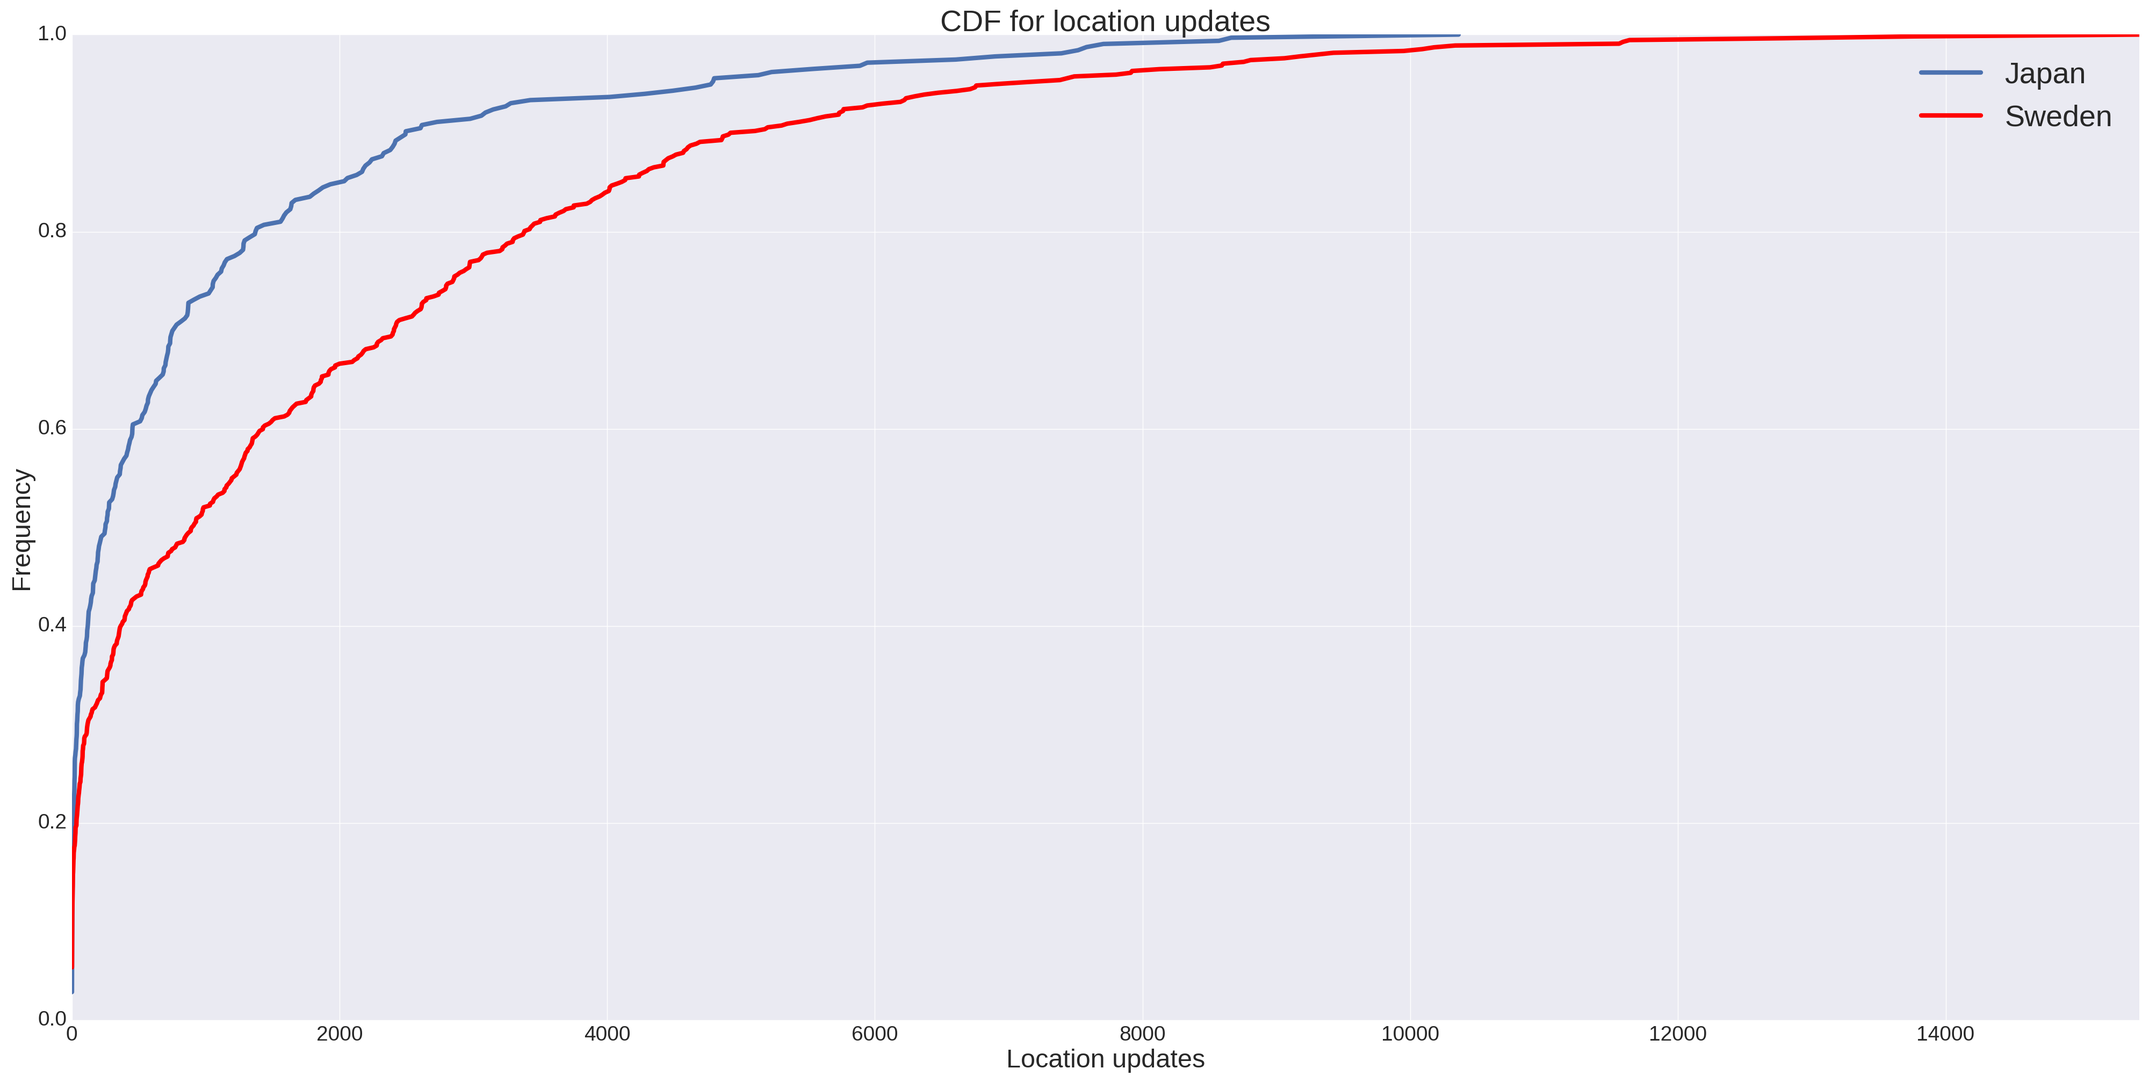
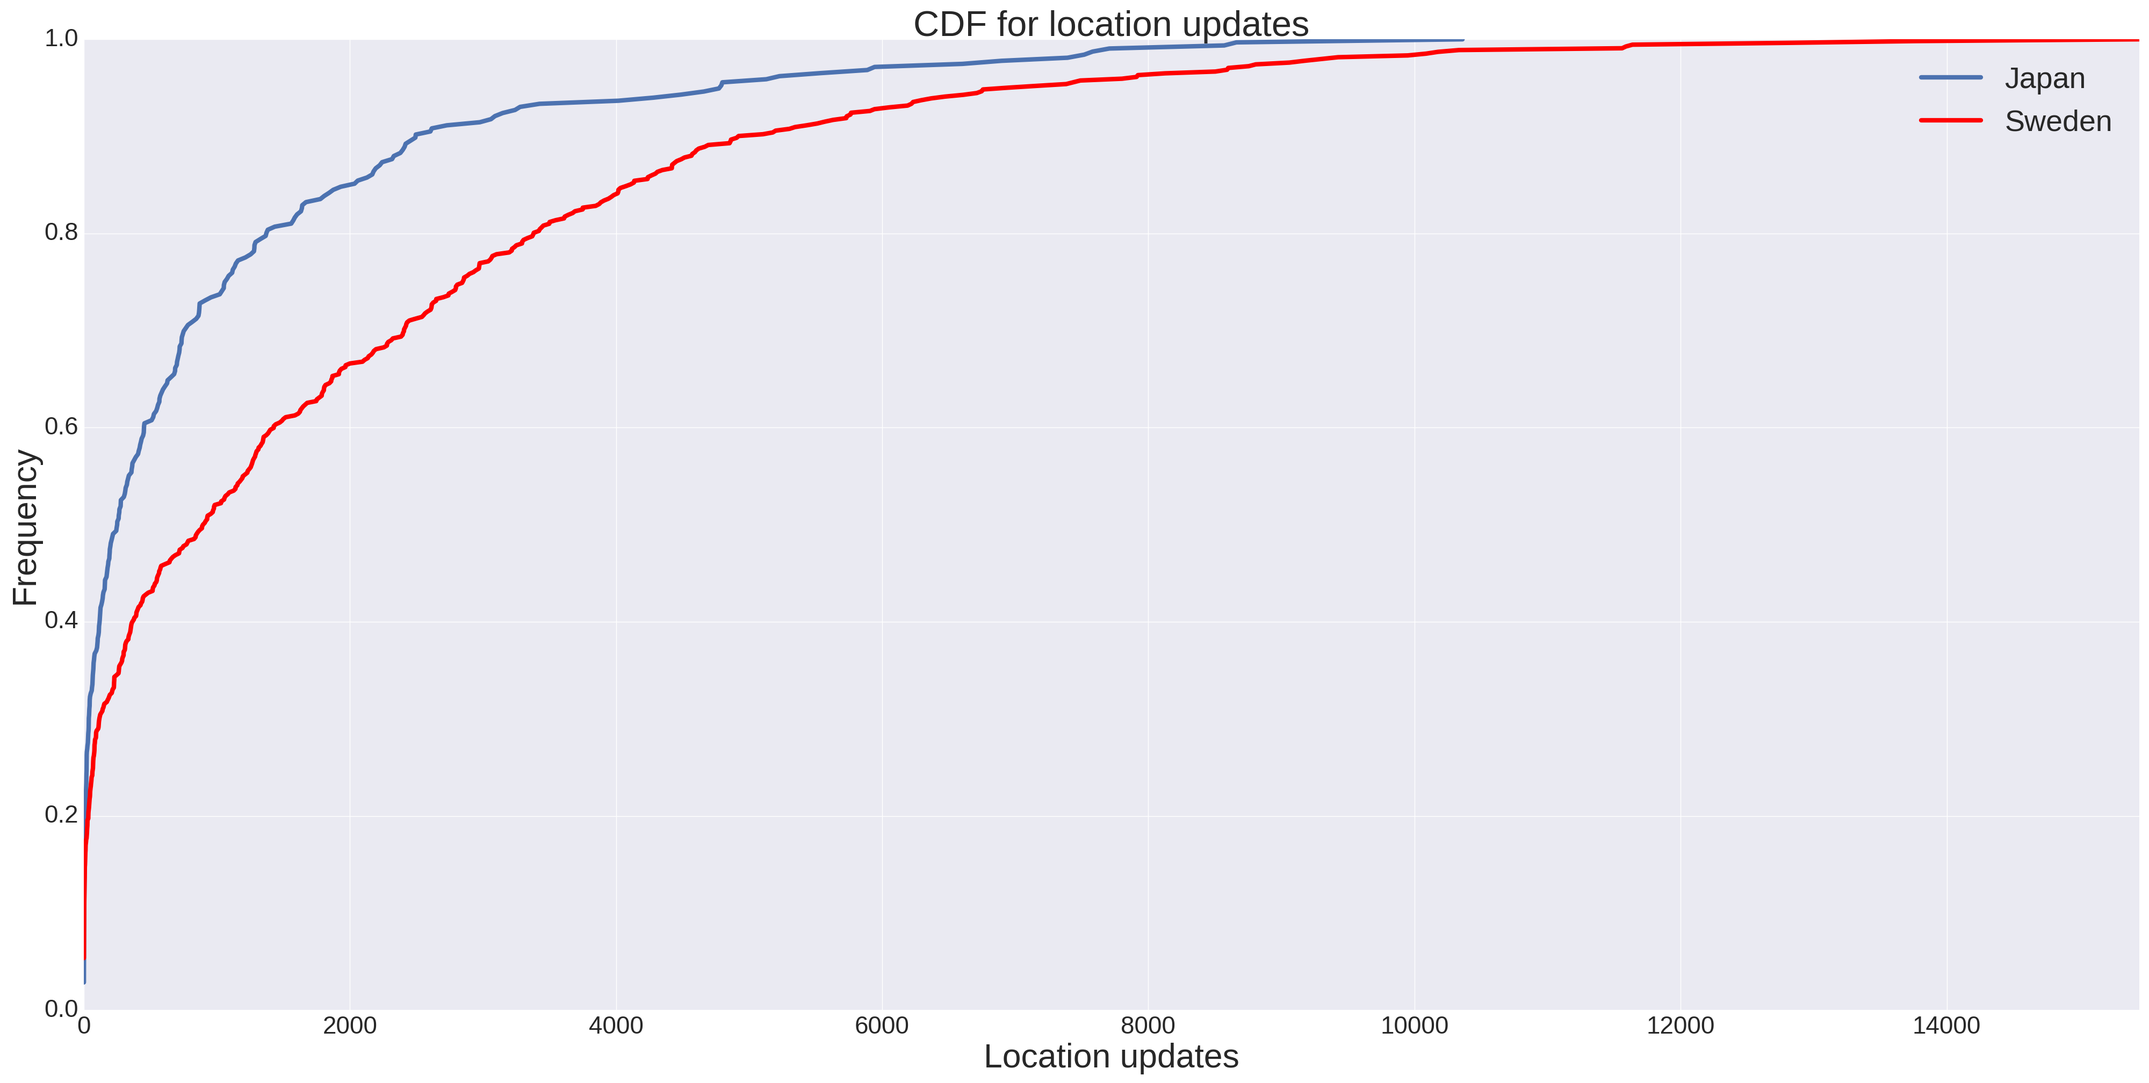
updated and aggregated heatmap added in script file

diff --git a/tools/scripts/records_analysis.py b/tools/scripts/records_analysis.py
@@ -36,8 +36,10 @@ def get_data_for_heat_map_per_month(country="Japan", total_count={}, user=""):
             numpy array -- Numpy array with number of location in that day, in that week, in that month
     """
     d = DatabaseHelper.DatabaseHelper()
-    sept_min_datetime2 = "2015-08-30 00:00:00+00:00" #Mandag
-    nov_max_datetime2 = "2015-12-13 23:59:59+00:00"
+    timezones = {"Sweden": "+02:00",
+                 "Japan": "+09:00"}
+    sept_min_datetime2 = "2015-08-30 00:00:00" + timezones[country] #Mandag
+    nov_max_datetime2 = "2015-12-13 23:59:59" + timezones[country]
     number_of_month = 3
     days_in_week = 7
     number_of_weeks = 6
@@ -68,23 +70,36 @@ def get_data_for_heat_map_per_month(country="Japan", total_count={}, user=""):
                         break
                     else:
                         month_index = month_range.index(current_month)
-                    start = day.strftime("%Y-%m-%d %H:%M:%S")+"+00:00"
-                    end =  day.strftime("%Y-%m-%d")+" 23:59:59+00:00"
+                    start = day.strftime("%Y-%m-%d %H:%M:%S") + timezones[country]
+                    end =  day.strftime("%Y-%m-%d")+" 23:59:59" + timezones[country]
                     user_query = ""
                     if user != "":
                         user_query = " AND useruuid = '"+user+"'"
-                    query = "select count(*) FROM location WHERE country='"+country+"' AND start_time >= '"+start+"' AND start_time <= '" + end + "'"+user_query+";"
+                    query = "select count(*) FROM location WHERE country='" + country + \
+                            "' AND ((start_time >= '" + start + \
+                            "' AND start_time < '" + end + "')" + \
+                            " OR (end_time >= '" + start + \
+                            "' AND end_time < '" + start + "')" + \
+                            " OR (start_time < '"+start + \
+                            "' AND end_time > '"+end+"'))" + user_query+";"
                     result = d.run_specific_query(query)[0][0] 
                     data[month_index][day.weekday()][week_of_month(day)-1] = result/total_count[country]
                     
                 else: #Hvis vi er i current_month
                     if day.month != 8:
-                        start = day.strftime("%Y-%m-%d %H:%M:%S")+"+00:00"
-                        end =  day.strftime("%Y-%m-%d")+" 23:59:59+00:00"
+                        start = day.strftime("%Y-%m-%d %H:%M:%S") + timezones[country]
+                        end =  day.strftime("%Y-%m-%d")+" 23:59:59" + timezones[country]
                         user_query = ""
                         if user != "":
                             user_query = " AND useruuid = '"+user+"'"
-                        query = "select count(*) FROM location WHERE country='"+country+"' AND start_time >= '"+start+"' AND start_time <= '" + end + "'" + user_query+";"
+                        query = "select count(*) FROM "+ \
+                            "location WHERE country='" + country + \
+                            "' AND ((start_time >= '" + start + \
+                            "' AND start_time < '" + end + "')" + \
+                            " OR (end_time >= '" + start + \
+                            "' AND end_time < '" + start + "')" + \
+                            " OR (start_time < '"+start + \
+                            "' AND end_time > '"+end+"'))" + user_query+";"
                         result = d.run_specific_query(query)[0][0] 
                         data[month_index][day.weekday()][week_of_month(day)-1] = result/total_count[country]
         if break_flag:
@@ -147,15 +162,20 @@ def get_data_for_heat_map_per_user(country, start_date, end_date, input_users=[]
     #print(len(users)/2)
     data = np.full((len(users)/2, len(days)),
                    0, dtype=int)
-
+    timezones = {"Sweden": "+02:00",
+                 "Japan": "+09:00"}
     if not input_users:
         for day_index, day in enumerate(tqdm(days)): #Vi starter på en mandag!!!
-            start = day.strftime("%Y-%m-%d %H:%M:%S")+"+00:00"
-            end =  day.strftime("%Y-%m-%d")+" 23:59:59+00:00"
+            start = day.strftime("%Y-%m-%d %H:%M:%S") + timezone[country]
+            end =  day.strftime("%Y-%m-%d")+" 23:59:59" + timezones[country]
             result = d.run_specific_query("SELECT useruuid, count(*) FROM " +
                                           "location WHERE country='" + country +
-                                          "' AND start_time >= '" + start +
-                                          "' AND start_time <= '" + end + "'" +
+                                          "' AND ((start_time >= '" + start +
+                                          "' AND start_time < '" + end + "')" +
+                                          " OR (end_time >= '" + start +
+                                          "' AND end_time < '" + start + "')" +
+                                          " OR (start_time < '"+start +
+                                          "' AND end_time > '"+end+"'))" +
                                           "GROUP BY useruuid")
             for row in result:
                 user = row[0]
@@ -163,9 +183,6 @@ def get_data_for_heat_map_per_user(country, start_date, end_date, input_users=[]
                     data[users[user]][day_index] = row[1]
                 else:
                     data[users[user]][day_index] = 1
-                #counts = row[1]
-                
-        #print(data)
     else:
         for day_index, day in enumerate(tqdm(days)): #Vi starter på en mandag!!!
             for user in input_users:
@@ -173,8 +190,12 @@ def get_data_for_heat_map_per_user(country, start_date, end_date, input_users=[]
                 end = day.strftime("%Y-%m-%d")+" 23:59:59+00:00"
                 result = d.run_specific_query("SELECT count(*) FROM " +
                                               "location WHERE country='" + country +
-                                              "' AND start_time >= '" + start +
-                                              "' AND start_time <= '" + end + "'" +
+                                              "' AND ((start_time >= '" + start +
+                                              "' AND start_time < '" + end + "')" +
+                                              " OR (end_time >= '" + start +
+                                              "' AND end_time < '" + start + "')" +
+                                              " OR (start_time < '"+start +
+                                              "' AND end_time > '"+end+"'))" +
                                               " AND useruuid='"+user+"'")
                 for row in result:
                     if row[0] > 0:
@@ -184,6 +205,112 @@ def get_data_for_heat_map_per_user(country, start_date, end_date, input_users=[]
                             data[users[user]][day_index] = 1
                         
     return data, users
+
+
+def get_data_for_heat_map_per_user_aggregated(country, start_date, end_date, bins=60, input_users=[], counts=False):
+    """
+        Generate numpy matrix represent heatmap, with user and number of bins over 24 hours.
+        Bins is number of minutes each bin is. So dimension for arrays is usersx((24*60)/bins)
+
+        Arguments:
+            country {string} -- Which country to get data from
+            start_date {string} -- start datetime
+            end_time {string} -- end datetime
+            input_users {list} -- list of specific users
+            counts {boolean} -- Indicates if it should find number of locations (True) or just if the user has an update (False)
+
+        Returns:
+            numpy array -- Numpy array
+    """
+    d = DatabaseHelper.DatabaseHelper()
+    users = get_all_users_in_country(country, input_users)
+    start_time = parser.parse(start_date + " 00:00:00+00:00")
+    end_time = parser.parse(end_date + " 23:59:59+00:00")
+    days = list(rrule(freq=DAILY, dtstart=start_time, until=end_time))
+    data = np.full((len(users)/2, (24*60)/bins),
+                   0, dtype=int)
+    timezones = {"Sweden": "+02:00",
+                 "Japan": "+09:00"}
+    if not input_users:
+        for day_index, day in enumerate(tqdm(days)):
+            times_in_that_day = generate_time_list(day, day+timedelta(days=1), bins, True)
+            #print(times_in_that_day)
+            for bin_index, times in enumerate(times_in_that_day):
+
+                start = times[0].strftime("%Y-%m-%d %H:%M:%S")+timezones[country]
+                end = times[1].strftime("%Y-%m-%d %H:%M:%S")+timezones[country]
+                #print("start = {}, end = {}\nbin_index = {}\n-----------"
+                #      .format(start, end, bin_index))
+                result = d.run_specific_query("SELECT useruuid, count(*) FROM " +
+                                              "location WHERE country='" + country +
+                                              "' AND ((start_time >= '" + start +
+                                              "' AND start_time < '" + end + "')" +
+                                              " OR (end_time >= '" + start +
+                                              "' AND end_time < '" + start + "')" +
+                                              " OR (start_time < '"+start +
+                                              "' AND end_time > '"+end+"'))" +
+                                              "GROUP BY useruuid")
+                for row in result:
+                    user = row[0]
+                    if counts:
+                        data[users[user]][bin_index] += row[1]
+                    else:
+                        data[users[user]][bin_index] += 1
+    else:
+        for day_index, day in enumerate(tqdm(days)): #Vi starter på en mandag!!!
+            times_in_that_day = generate_time_list(day, day+timedelta(days=1), bins, True)
+            for bin_index, times in enumerate(times_in_that_day):
+                for user in input_users:
+                    start = times[0].strftime("%Y-%m-%d %H:%M:%S")+"+00:00"
+                    end = times[1].strftime("%Y-%m-%d %H:%M:%S")+"+00:00"
+                    result = d.run_specific_query("SELECT count(*) FROM " +
+                                                  "location WHERE country='" + country +
+                                                  "' AND (start_time >= '" + start +
+                                                  "' AND start_time < '" + end + "')" +
+                                                  "' OR (end_time >= '" + start +
+                                                  "' AND end_time < '" + start + "')" +
+                                                  " OR (start_time < '"+start +
+                                                  "' AND end_time > '"+end+"')" +
+                                                  " AND useruuid='"+user+"'")
+                    for row in result:
+                        if row[0] > 0:
+                            if counts:
+                                data[users[user]][bin_index] += row[0]
+                            else:
+                                data[users[user]][bin_index] += 1
+                        
+    return data, users
+
+
+def generate_time_list(start_time, end_time, step_size, zips=False):
+    """
+    Generate a list of datetimes with an rrule of specific number of minutes
+
+    Arguments:
+        start_time {datetime} -- Datetime for when the list starts
+        end_time   {datetime} -- Datetime for when the list ends
+        step_size  {int}      -- How many minutes between element in the list (minutes - 60 = 1 hour)
+
+    Return:
+        list of datetimes
+    """
+    lst = []
+    if not zips:
+        lst.append(start_time)
+        temp_time = start_time
+        while temp_time < end_time:
+            temp_time = temp_time+timedelta(minutes=step_size)
+            lst.append(temp_time)
+        lst = lst[:-1]
+    else:
+        temp_time = start_time
+        before = temp_time
+        while temp_time < end_time:
+            temp_time = temp_time+timedelta(minutes=step_size)
+            lst.append((before, temp_time))
+            before = temp_time
+    return lst
+
 
 
 def week_of_month(date):
@@ -251,9 +378,10 @@ def cdf_xy_plot():
     plt.xlim(0, xlim_max)
     plt.title(title)
     plt.legend(prop={'size': 40})
-    [item.set_fontsize(35) for item in [ax.yaxis.label, ax.xaxis.label]]
-    ax.title.set_fontsize(40)
-    [item.set_fontsize(28) for item in ax.get_xticklabels() + ax.get_yticklabels()]
+    sns.plt.tick_params(labelsize=20)
+    [item.set_fontsize(45) for item in [ax.yaxis.label, ax.xaxis.label]]
+    ax.title.set_fontsize(48)
+    [item.set_fontsize(33) for item in ax.get_xticklabels() + ax.get_yticklabels()]
     plt.show()
 
 
@@ -297,7 +425,7 @@ def records_dist_plot(data, bins, xlabels, ylabels, titles, labels):
     sns.plt.show()
 
 
-def heat_map(data, mask, xlabels, ylabels, title="", anno=True, multiple=True, max_val=0):
+def heat_map(data, mask, xticks, yticks, title="", xlabels=[], ylabels=[], anno=True, multiple=True, max_val=0):
     """
     Plotting a heatmap
 
@@ -319,9 +447,9 @@ def heat_map(data, mask, xlabels, ylabels, title="", anno=True, multiple=True, m
         fig, ax = sns.plt.subplots(3, 1)
         cbar_ax = fig.add_axes([.91, .3, .03, .4])
         for index, ax in enumerate(ax.flat):
-            sns.heatmap(data[index], ax=ax, xticklabels=[" "]*len(xlabels[index]) if index != 2 else xlabels[index],
+            sns.heatmap(data[index], ax=ax, xticklabels=[" "]*len(xticks[index]) if index != 2 else xticks[index],
                         annot=anno, fmt="d",
-                        yticklabels=ylabels[index], mask=mask[index], vmin=0,
+                        yticklabels=yticks[index], mask=mask[index], vmin=0,
                         vmax=max_val, cbar=index == 0, cbar_ax=None if index else cbar_ax)
             if title != "" and index == 0:
                 ax.set_title(title)
@@ -331,24 +459,30 @@ def heat_map(data, mask, xlabels, ylabels, title="", anno=True, multiple=True, m
         if max_val == 0:
             max_val = np.amax(data)
         if mask:
-            ax = sns.heatmap(data, xticklabels=xlabels,
+            ax = sns.heatmap(data, xticklabels=xticks,
                              annot=anno, fmt="d",
-                             yticklabels=ylabels, mask=mask, vmin=0,
+                             yticklabels=yticks, mask=mask, vmin=0,
                              vmax=max_val)
         else:
-            if not ylabels:
-                ylabels = [[" "]*data.shape[1]]
-            ax = sns.heatmap(data, xticklabels=xlabels[0],
+            if not yticks:
+                yticks = [[" "]*data.shape[1]]
+            ax = sns.heatmap(data, xticklabels=xticks[0],
                              annot=anno, fmt="d",
-                             yticklabels=ylabels[0], vmin=0,
+                             yticklabels=yticks[0], vmin=0,
                              vmax=max_val)
             [label.set_visible(False) for label in ax.yaxis.get_ticklabels()]
 
             for label in ax.yaxis.get_ticklabels()[::4]:
                 label.set_visible(True)
         ax.set_title(title)
-        ax.set_ylabel("Users")
-        ax.set_xlabel("Days")
+        if ylabels:
+            ax.set_ylabel(ylabels)
+        else:
+            ax.set_ylabel("Users")
+        if xlabels:
+            ax.set_xlabel(xlabels)
+        else:
+            ax.set_xlabel("Days")
         plt.yticks(rotation=0)
     sns.plt.show()
 
@@ -744,11 +878,75 @@ def coocs_at_hq_or_not():
     [item.set_fontsize(33) for item in ax.get_xticklabels() + ax.get_yticklabels()]
     sns.plt.show()
 
-    #
+
+def time_plot():
+    d = DatabaseHelper.DatabaseHelper()
+    data = []
+    _, _, total_count, countries = fetch_data()
+    for country in countries:
+        x = []
+        y = []
+        res = d.run_specific_query("select extract(hour FROM start_time), count(*) from location WHERE country='"+country+"' GROUP BY extract(hour FROM start_time)")
+        for row in res:
+            x.append(adjust_hour(row[0], country))
+            y.append(row[1]/total_count[country])
+        temp = zip(x, y)
+        temp2 = list(zip(*sorted(temp)))
+        data.append((list(temp2[0]), list(temp2[1])))
+    title = "Cummulative location updates by time of day"
+    xlabel = "Time of day in hours"
+    ylabel = "Cummulative location updates frequency"
+    legend_labels = countries
+    ax = plt.subplot(111, xlabel=xlabel, ylabel=ylabel, title=title)
+    plt.plot(data[0][0], data[0][1], label=legend_labels[0], linewidth=6.0)
+    plt.plot(data[1][0], data[1][1], label=legend_labels[1], color='r', linewidth=6.0)
+    #xlim_max = max([max(data[0][0]), max(data[1][0])])
+    #plt.ylim(0, 1)
+    plt.xticks(data[0][0])
+    ax.yaxis.set_major_formatter(tck.FormatStrFormatter('%.1e'))
+    plt.xlim(0, 24)
+    plt.title(title)
+    plt.legend(prop={'size': 40})
+    sns.plt.tick_params(labelsize=20)
+    [item.set_fontsize(45) for item in [ax.yaxis.label, ax.xaxis.label]]
+    ax.title.set_fontsize(48)
+    [item.set_fontsize(33) for item in ax.get_xticklabels() + ax.get_yticklabels()]
+    plt.show()
+
+
+def adjust_hour(hour, country):
+    countries = {'Japan': 7, 'Sweden': 0}
+    return (hour+countries[country]) % 24
+    
+
+def aggregated_heatmap():
+    country = "Sweden"
+    start = '2015-09-01'
+    end = '2015-11-30'
+    bin_size = 60 #minutes
+    data, users = get_data_for_heat_map_per_user_aggregated(country, start, end, bin_size)
+    lst = generate_time_list(parser.parse(start+' 00:00:00+00:00'),
+                             parser.parse(start+' 00:00:00+00:00') +
+                             timedelta(days=1), bin_size)
+    xticks = [row.strftime("%H:%M") for row in lst]
+    print(xticks)
+    yticks = list(range(data.shape[0]))
+    heat_map(data, [], [xticks], [],
+             title=country + " - '" + start + "' to '" + end + "'",
+             xlabels="Time of day", ylabels=[], anno=False, multiple=False, max_val=0)
+
+
 if __name__ == '__main__':
+    aggregated_heatmap()
+    #res = generate_time_list(parser.parse('2015-08-30 00:00:00+00:00'),
+    #                         parser.parse('2015-08-31 00:00:00+00:00'), 60, True)
+    #print(len(res))
+    #print(res)
+    
     #coocs_at_hq_or_not()
     #location_updates_at_hq_or_not()
-    cdf_xy_plot()
+    #cdf_xy_plot()
+    #time_plot()
     #compare_loc_updates_per_month()
     #data, df, total_count, countries = fetch_data()
 

diff --git a/report/dataset.tex b/report/dataset.tex
@@ -230,7 +230,13 @@ Vi har valgt at visualisere dette, ved brug af Heatmaps.
 \end{figure}
 
 
- Figure \ref{fig:heatmap_jap} viser hvordan lokations opdateringer per bruger i Japan er fordelt over hver dag i hver af de tre måneder. p.  \pageref{fig:heatmap_jap} and Figure \ref{fig:heatmap_swe} p. \pageref{fig:heatmap_swe})
+ Figure \ref{fig:heatmap_jap} viser hvordan lokations opdateringerne per bruger (afrundet til heltal) i Japan er fordelt over hver dag i hver af de tre måneder. Figure \ref{fig:heatmap_swe} viser det samme, bare for Sverige. 
+ Vi kan f.eks. se, at der i Japan er gennemsnitligt 17 opdateringer per bruger om mandagen i uge 3 i september, hvor der samme dag i Sverige er 35 opdateringer i gennemsnittet. 
+
+ Da alle måneder har samme skala i det enkelte heatmap, er det nemt at sammenligne dagene på tværs af månederne. Vi kan derfor se, at for både Japan og Sverige gælder, at der generelt er mere aktivitet i september, end i da andre måneder. Dette underbygger tendensen fra Figure \ref{fig:mean_loc_updates_sep-nov}, hvor vi kunne se en nedadgående tendens fra september til november. 
+
+ 
+\newpage
 
 
 Our work will focus on the location updates from Japan. There is 332 users in Japan for which we have location updates.

diff --git a/report/main.tex b/report/main.tex
@@ -105,7 +105,6 @@
 \include{Chapter}                                  %Chapter 1
 %\include{Chapter2}                                 %Chapter 2
 \appendix
-
 %-----------
 % Backmatter
 %-----------
